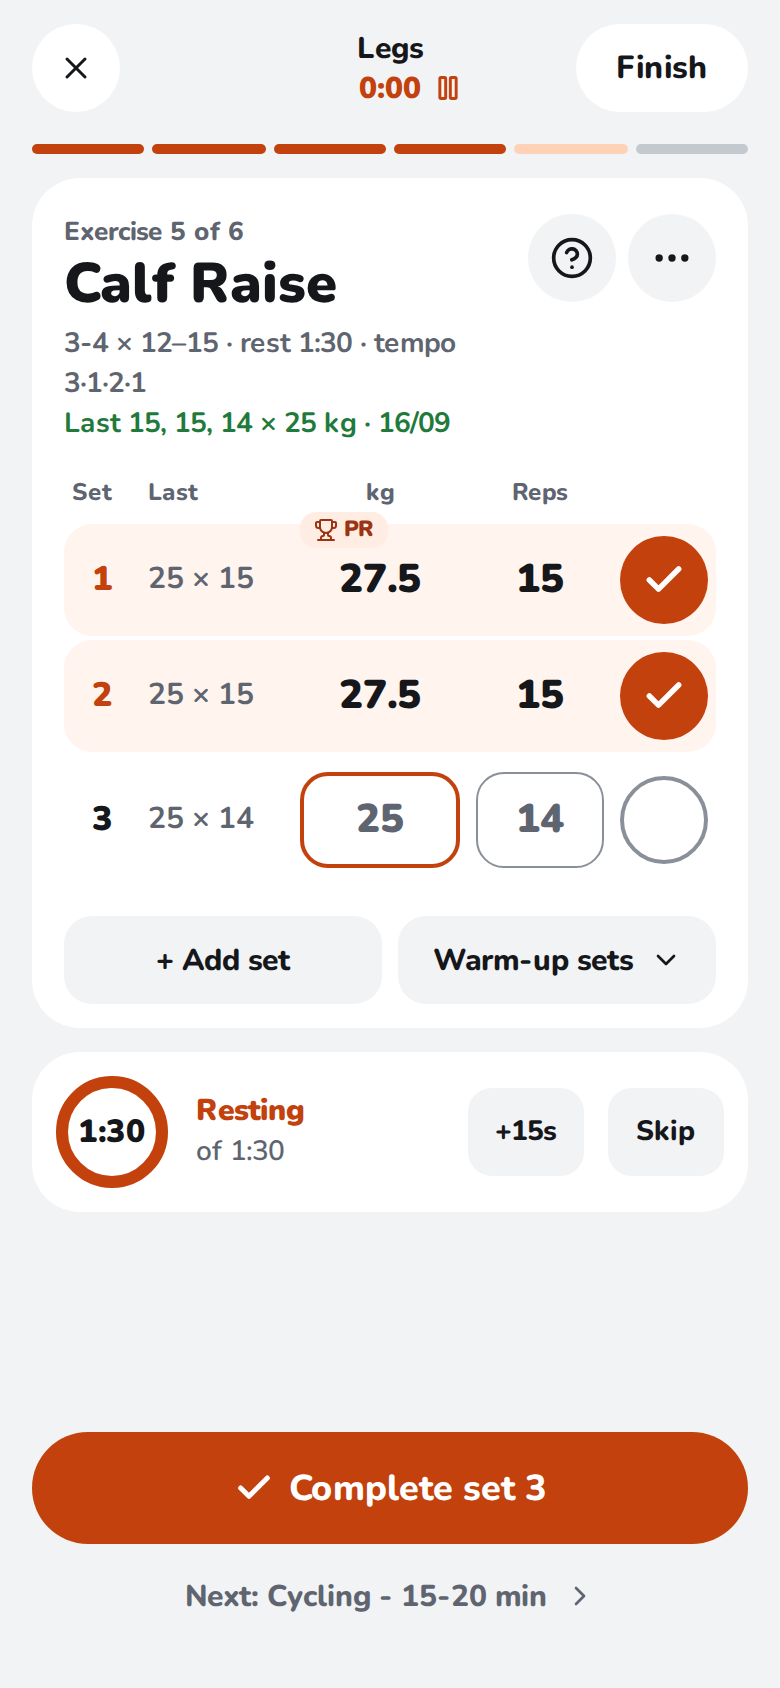
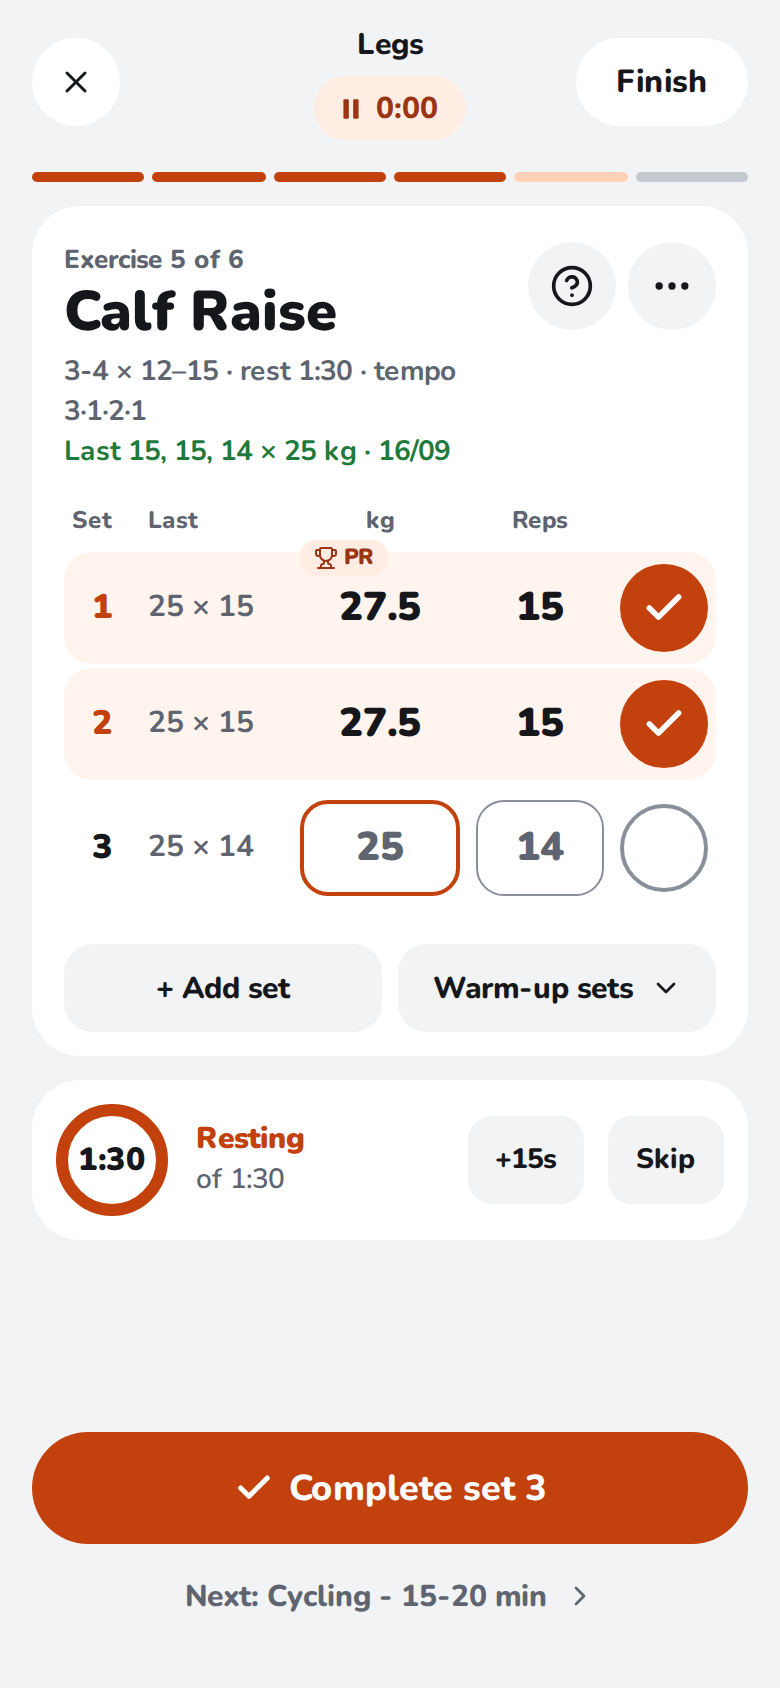
Workout clock: one pill that pauses and resumes at a tap
The clock was orange digits with a pause mark hanging beside them, opening a sheet to
pause, resume or restart. It's now one pill under the session's name, the mark then
the time, centred as one: a tap pauses it where it is (grey, with a play mark), and
another resumes it. While it's paused, a round ↺ beside it restarts it from 0:00,
after asking. A finished workout shows the time it took with a tick, and nothing to
tap. It fits a 360 px phone past an hour, ↺ included.

Claude-Session: https://claude.ai/code/session_01W3N7J58zfpKW6Nw14M15Sd

diff --git a/src/components/workout/WorkoutView.tsx b/src/components/workout/WorkoutView.tsx
@@ -1,7 +1,7 @@
 "use client";
-import { Check, ChevronRight, Pause, Play, X } from "lucide-react";
+import { Check, ChevronRight, Pause, Play, RotateCcw, X } from "lucide-react";
 import { useEffect, useState } from "react";
-import { choose } from "@/components/ds/Ask";
+import { ask } from "@/components/ds/Ask";
 import { Button } from "@/components/ds/parts";
 import { CardioFinisher } from "@/components/today/CardioFinisher";
 import { LiftItem, logSet, nextSet, type Moves } from "@/components/today/LiftItem";
@@ -234,36 +234,45 @@ function TopBar({ name, day, onClose, onFinish }: { name: string; day: DayKey; o
       <div className="wtop-t">
         <h1 id="screenTitle">{name}</h1>
         {run?.endedAt ? (
-          // Finished: its duration, kept as it was (opened again to review it, say), with nothing to restart.
-          <span className="wclock" id="wclock" role="timer" aria-label={`Took ${Math.floor(runSeconds(run) / 60)} minutes`}>
+          // Finished: how long it took, kept as it was (opened again to review it, say), with nothing to tap.
+          <span className="wclock done" id="wclock" role="timer" aria-label={`Took ${Math.floor(runSeconds(run) / 60)} minutes`}>
+            <Check size={14} strokeWidth={3} aria-hidden="true" />
             {clock(runSeconds(run))}
           </span>
         ) : run ? (
-          // Tapped: the clock's own sheet, to stop it for a while (Pause, then Resume) or start it again from 0:00.
-          <button
-            type="button"
-            className={cx("wclock", paused && "paused")}
-            id="wclock"
-            aria-label={paused ? `Clock paused at ${Math.floor(runSeconds(run) / 60)} minutes. Resume or restart it` : `${Math.floor(runSeconds(run) / 60)} minutes in. Pause or restart the clock`}
-            onClick={async () => {
-              const t = clock(runSeconds(run));
-              const pick = await choose(
-                "Workout clock",
-                [
-                  paused ? { id: "resume", label: "Resume the clock" } : { id: "pause", label: "Pause the clock" },
-                  { id: "restart", label: "Restart from 0:00", tone: "plain" },
-                ],
-                paused ? `Paused at ${t}. Time paused doesn’t count toward the workout.` : `${t} so far. Pause it while you’re away; the time paused doesn’t count.`,
-              );
-              if (pick === "pause") pauseRun(day);
-              else if (pick === "resume") resumeRun(day);
-              else if (pick === "restart") restartRun(day);
-              tick((n) => n + 1);
-            }}
-          >
-            {clock(runSeconds(run))}
-            {paused ? <Play size={14} strokeWidth={2.5} aria-hidden="true" /> : <Pause size={14} strokeWidth={2.5} aria-hidden="true" />}
-          </button>
+          // One pill: a tap pauses the clock, and another resumes it; the time paused doesn't count. Paused, it's grey
+          // with a play mark, and ↺ beside it starts the clock again from 0:00 (it asks first).
+          <div className="wclock-row">
+            <button
+              type="button"
+              className={cx("wclock", paused && "paused")}
+              id="wclock"
+              aria-label={paused ? `Resume the clock, paused at ${Math.floor(runSeconds(run) / 60)} minutes` : `Pause the clock, ${Math.floor(runSeconds(run) / 60)} minutes in`}
+              onClick={() => {
+                if (paused) resumeRun(day);
+                else pauseRun(day);
+                tick((n) => n + 1);
+              }}
+            >
+              {paused ? <Play size={13} fill="currentColor" strokeWidth={0} aria-hidden="true" /> : <Pause size={13} fill="currentColor" strokeWidth={0} aria-hidden="true" />}
+              {clock(runSeconds(run))}
+            </button>
+            {paused ? (
+              <button
+                type="button"
+                className="wclock-restart"
+                id="wclockRestart"
+                aria-label="Restart the clock from 0:00"
+                onClick={async () => {
+                  if (!(await ask("Restart the clock from 0:00?", "Restart", { body: `It's at ${clock(runSeconds(run))}, paused. Restarted, it runs from 0:00.` }))) return;
+                  restartRun(day);
+                  tick((n) => n + 1);
+                }}
+              >
+                <RotateCcw size={15} strokeWidth={2.5} aria-hidden="true" />
+              </button>
+            ) : null}
+          </div>
         ) : null}
       </div>
       <button type="button" className="btn btn-raised" id="finishBtn" onClick={onFinish}>

diff --git a/src/styles/train.css b/src/styles/train.css
@@ -47,14 +47,16 @@
 .wtop>:last-child{justify-self:end}
 .wtop-t{display:flex;flex-direction:column;align-items:center;min-width:0;text-align:center}
 .wtop h1{font:800 15px/20px var(--font-sans);overflow-wrap:anywhere}
-/* The workout's clock: tap for its sheet (pause, resume, restart). A 44px target around the small label. The time
-   is what's centred, in figures of one width so it holds still; the pause or play mark hangs to its right. */
-.wclock{position:relative;display:inline-flex;align-items:center;padding:0 6px;border:0;border-radius:var(--radius-pill);background:transparent;color:var(--brand-text);font:900 15px/20px var(--font-sans);font-variant-numeric:tabular-nums;cursor:pointer}
-.wclock svg{position:absolute;left:100%;top:50%;translate:0 -50%}
-.wclock::before{content:"";position:absolute;inset:-12px -26px}
-.wclock:focus-visible{outline:2px solid var(--brand-text);outline-offset:2px}
-/* Paused: the time in plain ink, not counting, with a play mark to say a tap starts it again. */
-.wclock.paused{color:var(--ink-muted)}
+/* The workout's clock, under the session's name: one pill, its mark then the time (in figures of one width, so it
+   holds still), that pauses and resumes at a tap. 32px drawn, 44px to tap. Paused, it turns grey with a play mark, and
+   ↺ beside it starts it again from 0:00; finished, it's the time it took, with nothing to tap. */
+.wclock-row{display:flex;align-items:center;justify-content:center;gap:8px;margin-top:6px}
+.wclock{position:relative;display:inline-flex;align-items:center;gap:6px;min-height:32px;padding:0 14px 0 12px;border:0;border-radius:var(--radius-pill);background:var(--brand-tint);color:var(--brand-tint-ink);font:800 15px/20px var(--font-sans);font-variant-numeric:tabular-nums;cursor:pointer}
+.wclock::before,.wclock-restart::before{content:"";position:absolute;inset:-6px 0}
+.wclock:focus-visible,.wclock-restart:focus-visible{outline:2px solid var(--brand-text);outline-offset:2px}
+.wclock.paused{background:var(--surface-sunken);color:var(--ink-muted);box-shadow:inset 0 0 0 1.5px var(--outline)}
+.wclock.done{margin-top:6px;cursor:default;background:transparent;color:var(--ink-muted);padding:0}
+.wclock-restart{position:relative;display:grid;place-items:center;width:32px;height:32px;padding:0;border:0;border-radius:50%;background:var(--surface-sunken);color:var(--ink);box-shadow:inset 0 0 0 1.5px var(--outline);cursor:pointer}
 .wtop .btn-raised:not(.btn-icon){padding:0 20px;font-size:16px}
 .wprog{position:relative;z-index:1;list-style:none;margin:0;padding:16px var(--gut-r) 0 var(--gut-l);display:grid;grid-auto-flow:column;grid-auto-columns:minmax(0,1fr);gap:4px}
 .wprog li{display:flex}

diff --git a/src/lib/workout.ts b/src/lib/workout.ts
@@ -72,7 +72,7 @@ export function startRun(day: DayKey, now = Date.now()): WorkoutRun {
 /** Starts the day's clock again from 0:00: the top bar's clock, tapped. */
 export const restartRun = (day: DayKey, now = Date.now()): WorkoutRun => write({ day, startedAt: now });
 
-/** Stops the day's clock where it is (the top bar's clock, tapped, then Pause), until resumeRun. Nothing for a
+/** Stops the day's clock where it is (the top bar's clock, tapped), until resumeRun. Nothing for a
  *  finished or already paused one. */
 export function pauseRun(day: DayKey, now = Date.now()): WorkoutRun | null {
   const r = runOf(day);

diff --git a/docs/user-guide.md b/docs/user-guide.md
@@ -50,7 +50,7 @@ The selected day's session and everything logged about the day.
 
 ## The workout
 
-One exercise at a time. The top bar has the session, the time since you started and **Finish**; ✕ closes it and the clock keeps running. Tap the clock for **Pause the clock** (it stops where it is, and the time paused doesn't count; tap it again for **Resume the clock**) or **Restart from 0:00**. One left running for over 3 hours starts again by itself when you open the workout; a paused one waits. A segment per exercise shows where you are (tap one to jump there), and the day's cardio finisher is the last step.
+One exercise at a time. The top bar has the session, the time since you started and **Finish**; ✕ closes it and the clock keeps running. The clock sits under the session's name, in a pill: tap it to pause it (it stops where it is, turns grey, and the time paused doesn't count), and tap it again to carry on. While it's paused, ↺ beside it restarts it from 0:00, after asking. One left running for over 3 hours starts again by itself when you open the workout; a paused one waits. A segment per exercise shows where you are (tap one to jump there), and the day's cardio finisher is the last step.
 
 - **The exercise:** its sets × reps, rest and tempo, and what you did last time; a note when today's heaviest set is already heavier. **?** opens how to do it: your own form notes from the plan, then, for a lift from the library, photos of its start and finish positions, taking turns so you see it move, its steps and **Watch a video**. A plan saved before the library still gets photos, from the lift picked for each of its names. The steps come with the app; the photos need a connection the first time. Warnings such as a knee note always show.
 - **The set table:** a row per set with last time's set, then kg and reps. The boxes show a suggestion (the next weight to try and the target reps); type your own, or tap the row's check (or **Complete set N** at the bottom) to log it as shown. Tapping a done set's check clears it. The next set copies the weight you just used. Logging the planned number of sets marks the lift done; **Done** in its **···** menu sets it by hand.
